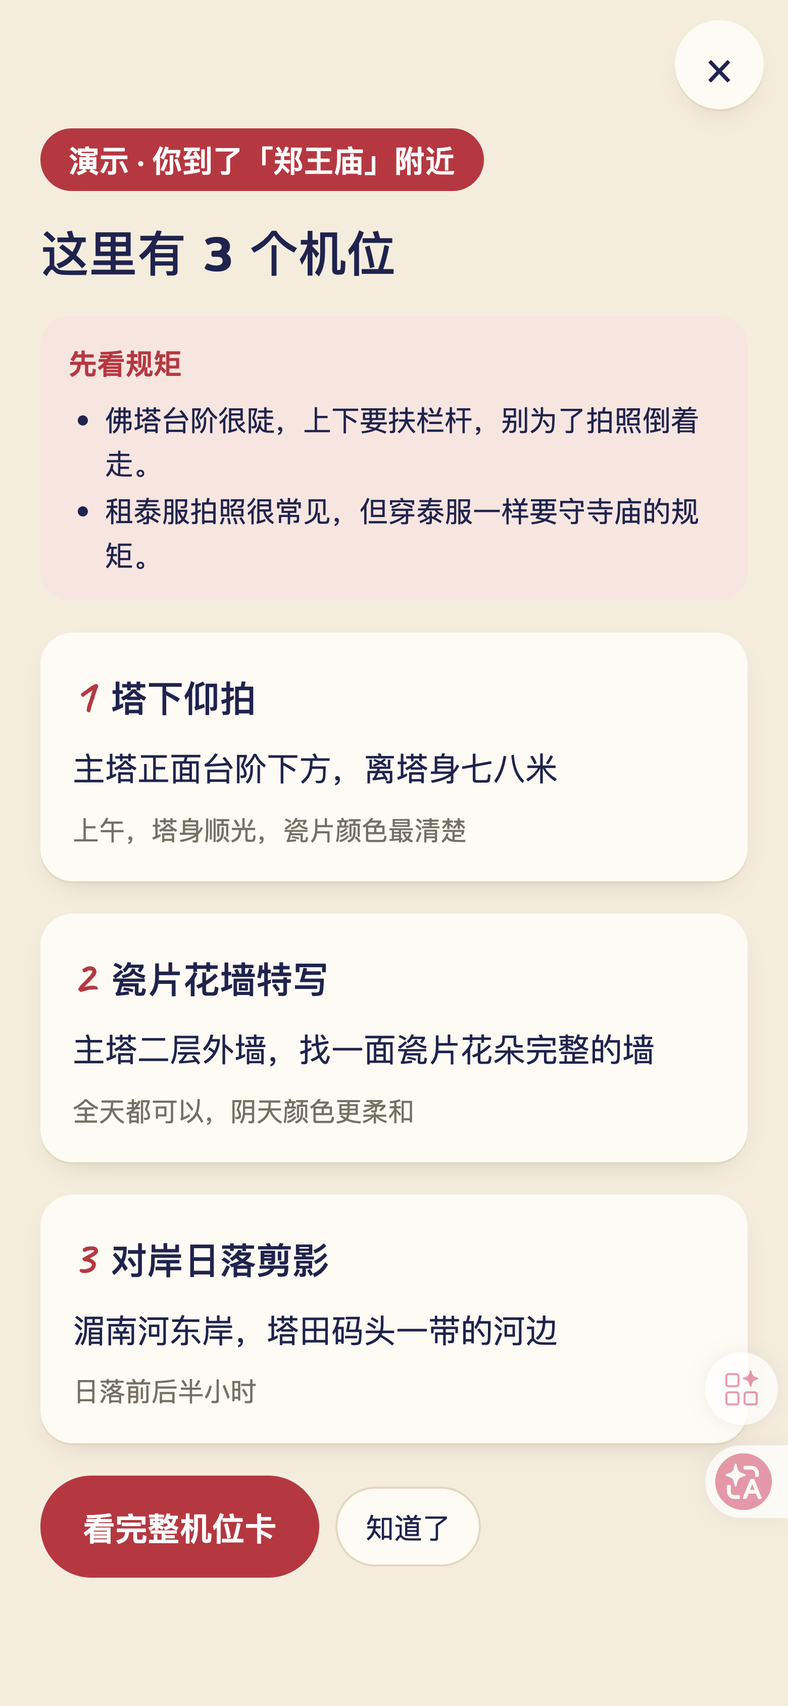
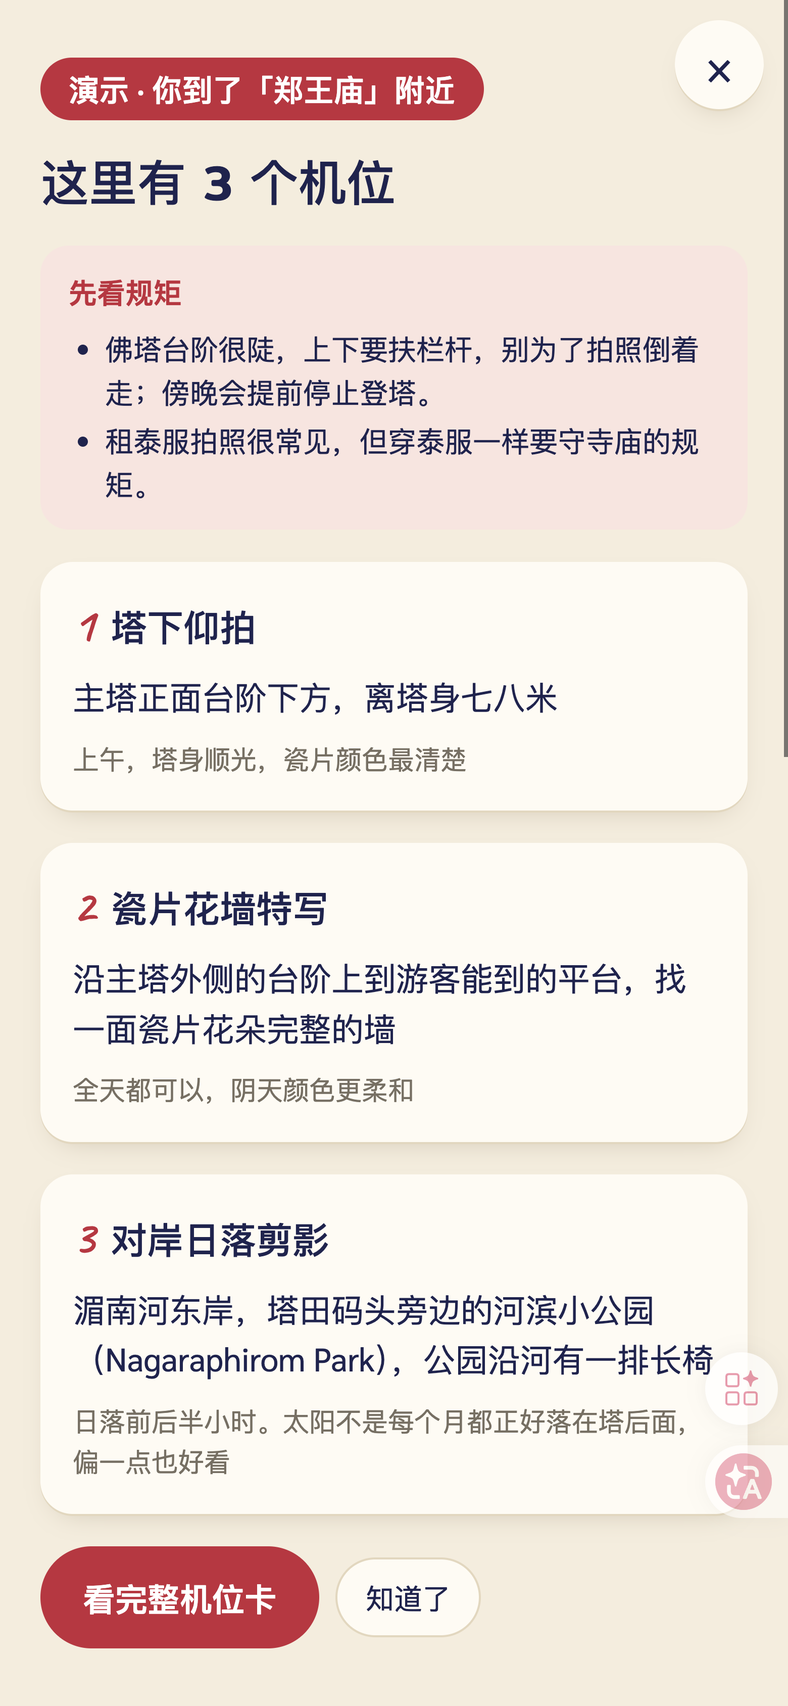
连续看 + 念给我听；修视觉模型被机位卡带偏、全黑图被选中

Changed region(s): [[0.0308, 0.0311, 0.9538, 0.9642], [0.9846, 0.0, 1.0, 0.4354], [0.8308, 0.5598, 0.8615, 0.5909]]

diff --git a/pian.html b/pian.html
@@ -99,6 +99,7 @@ p { margin: 0; }
   background: linear-gradient(to right, transparent 33.2%, rgba(255,255,255,.45) 33.2% 33.5%, transparent 33.5% 66.5%, rgba(255,255,255,.45) 66.5% 66.8%, transparent 66.8%),
               linear-gradient(to bottom, transparent 33.2%, rgba(255,255,255,.45) 33.2% 33.5%, transparent 33.5% 66.5%, rgba(255,255,255,.45) 66.5% 66.8%, transparent 66.8%); }
 .cam .brief { position: absolute; left: 8px; right: 8px; top: 8px; padding: 8px 10px; border-radius: 10px; background: rgba(20,22,46,.72); color: #FFF6E6; font-size: 13px; }
+.cam .tag { position: absolute; left: 8px; bottom: 8px; padding: 4px 10px; border-radius: 999px; background: rgba(20,22,46,.72); color: #fff; font-size: 13px; }
 .cam .busy { position: absolute; inset: 0; display: grid; place-items: center; background: rgba(20,22,46,.45); color: #fff; font-size: 16px; }
 .advice { display: grid; gap: 10px; padding: 16px; border-radius: 16px; background: var(--surface); box-shadow: var(--shadow); }
 .advice.ok { background: var(--leaf-soft); }
@@ -171,7 +172,7 @@ textarea, select { font: inherit; color: inherit; width: 100%; padding: 10px 12p
 
   // ---------- data ----------
   let D = null, FZ = null;           // spots; 飞猪 snapshot (Bangkok)
-  const UI = { err: null, pos: null, geoOn: false, look: null, lookBusy: false, lookErr: null, shot: null, picks: [], pickBusy: false, pickErr: null, pick: null, note: "", pickSpot: "", sample: false, lookSample: false };
+  const UI = { err: null, pos: null, geoOn: false, look: null, lookBusy: false, lookErr: null, shot: null, picks: [], pickBusy: false, pickErr: null, pick: null, note: "", pickSpot: "", sample: false, lookSample: false, speak: true };
   const spotOf = id => D.spots.find(s => s.id === id);
   const dist = (a, b) => { const R = 6371000, r = x => x * Math.PI / 180, dφ = r(b.lat - a.lat), dλ = r(b.lng - a.lng); const h = Math.sin(dφ / 2) ** 2 + Math.cos(r(a.lat)) * Math.cos(r(b.lat)) * Math.sin(dλ / 2) ** 2; return 2 * R * Math.asin(Math.sqrt(h)); };
   const fmtDist = m => m < 1000 ? `${Math.round(m / 10) * 10} 米` : `${(m / 1000).toFixed(1)} 公里`;
@@ -281,10 +282,10 @@ textarea, select { font: inherit; color: inherit; width: 100%; padding: 10px 12p
   function adviceHTML() {
     const a = UI.look;
     if (UI.lookErr) return `<div class="err">${esc(UI.lookErr)}</div>`;
-    if (!a) return `<p class="muted">对准想拍的画面，按「帮我看看」。AI 只根据画面说话，告诉你下一步怎么挪。</p>`;
+    if (!a) return `<p class="muted">对准想拍的画面，按「帮我看看」。AI 只根据画面说话，告诉你下一步怎么挪。按「连续看」可以边挪边看：每隔几秒看一次，最多 6 次，合适了会告诉你按快门。</p>`;
     return `<div class="advice ${a.ok ? "ok" : ""}" aria-live="polite">
       <div><span class="dots" aria-label="${a.score} 分，满分 5 分">${[1, 2, 3, 4, 5].map(i => `<i class="${i <= a.score ? "on" : ""}"></i>`).join("")}</span>
-        <b style="margin-left:8px">${a.ok ? "可以按快门了" : "再调一下"}</b></div>
+        <b style="margin-left:8px">${a.match === false ? "镜头没对着景" : a.ok ? "可以按快门了" : "再调一下"}</b></div>
       ${a.see ? `<p class="muted small">我看到：${esc(a.see)}</p>` : ""}
       ${a.moves.length ? `${a.ok ? `<p class="muted small">想更好还可以：</p>` : ""}<ol class="moves">${a.moves.map(m => `<li>${esc(m)}</li>`).join("")}</ol>` : ""}
       ${a.pose ? `<p>人的姿势：${esc(a.pose)}</p>` : ""}
@@ -301,10 +302,13 @@ textarea, select { font: inherit; color: inherit; width: 100%; padding: 10px 12p
         <div class="grid"></div>
         ${c ? `<div class="brief">${esc(c.shot)}</div>` : ""}
         ${UI.lookBusy ? `<div class="busy">正在看画面…</div>` : ""}
+        <div class="tag" id="autotag" hidden>正在看…</div>
       </div>
       <div class="row" style="justify-content:center">
         <button class="btn primary big" data-act="look" ${UI.lookBusy ? "disabled" : ""}>${UI.shot ? "再看一次" : "帮我看看"}</button>
         <label class="btn"><input type="file" id="lookfile" accept="image/*" capture="environment" hidden>用相册 / 系统相机</label>
+        ${!UI.shot ? `<button class="btn navy" id="autobtn" data-act="auto">连续看：边挪边看</button>` : ""}
+        <button class="btn" data-act="speak" aria-pressed="${UI.speak}">念给我听：${UI.speak ? "开" : "关"}</button>
         ${samplePic(s) ? `<button class="btn" data-act="looksample" ${UI.lookBusy ? "disabled" : ""}>没在现场？用示例图试试</button>` : ""}
       </div>
       ${UI.lookSample && UI.shot ? `<p class="muted small">上面是示例图片（飞猪的景点图），不是你的相机画面。AI 的建议是针对这张图现场生成的。</p>` : ""}
@@ -356,7 +360,7 @@ textarea, select { font: inherit; color: inherit; width: 100%; padding: 10px 12p
     app.innerHTML = view === "spot" ? viewSpot(args[0]) : view === "look" ? viewLook(args[0], args[1]) : view === "pick" ? viewPick() : viewHome();
     if (view === "look" && !UI.shot) startCam();
   }
-  addEventListener("hashchange", () => { UI.look = null; UI.lookErr = null; UI.shot = null; UI.lookSample = false; closeModal(); render(); scrollTo(0, 0); });
+  addEventListener("hashchange", () => { stopAuto(); if (window.speechSynthesis) speechSynthesis.cancel(); UI.look = null; UI.lookErr = null; UI.shot = null; UI.lookSample = false; closeModal(); render(); scrollTo(0, 0); });
 
   // ---------- camera ----------
   let CAM = null;
@@ -378,13 +382,42 @@ textarea, select { font: inherit; color: inherit; width: 100%; padding: 10px 12p
     c.getContext("2d").drawImage(v, 0, 0, c.width, c.height);
     return c.toDataURL("image/jpeg", .8);
   }
+  // Read the one thing to do next aloud: with the phone held up, nobody reads small text.
+  function say() {
+    const a = UI.look; if (!UI.speak || !a || !window.speechSynthesis) return;
+    const t = [a.match === false ? a.moves[0] : a.ok ? "可以按快门了" : a.moves[0], a.rule ? "注意，" + a.rule : ""].filter(Boolean).join("。");
+    if (!t) return;
+    try { speechSynthesis.cancel(); const u = new SpeechSynthesisUtterance(t); u.lang = "zh-CN"; u.rate = 1.05; speechSynthesis.speak(u); } catch (e) {}
+  }
+  // 连续看: the viewfinder stays live; one frame every few seconds, at most 6, stops as soon as the shot is good.
+  const AUTO = { on: false, n: 0, timer: null };
+  function stopAuto() {
+    AUTO.on = false; clearTimeout(AUTO.timer);
+    const b = $("#autobtn"); if (b) b.textContent = "连续看：边挪边看";
+    const tag = $("#autotag"); if (tag) tag.hidden = true;
+  }
+  async function autoStep() {
+    if (!AUTO.on || view !== "look" || UI.shot) { stopAuto(); return; }
+    const img = grab();
+    if (!img) { AUTO.timer = setTimeout(autoStep, 1000); return; }
+    const tag = $("#autotag"); if (tag) { tag.hidden = false; tag.textContent = `正在看…第 ${AUTO.n + 1} 次`; }
+    try { UI.look = await post("/api/pian/look", { image: img, spot: args[0] || "", card: Number.isInteger(+args[1]) ? +args[1] : -1 }); UI.lookErr = null; track("pian_look", args[0], true); }
+    catch (e) { UI.lookErr = e.message; UI.look = null; AUTO.on = false; }
+    AUTO.n++;
+    const t2 = $("#autotag"); if (t2) t2.hidden = true;
+    const a = $("#advice"); if (a) a.innerHTML = adviceHTML();
+    say();
+    if (!AUTO.on) { stopAuto(); return; }
+    if ((UI.look && UI.look.ok) || AUTO.n >= 6) { stopAuto(); return; }
+    AUTO.timer = setTimeout(autoStep, 3500);
+  }
   async function look(image, sample) {
     if (UI.lookBusy) return;
     UI.lookSample = !!sample;
     UI.lookBusy = true; UI.lookErr = null; UI.look = null; UI.shot = image; render();
     try { UI.look = await post("/api/pian/look", { image, spot: args[0] || "", card: Number.isInteger(+args[1]) ? +args[1] : -1 }); track("pian_look", args[0], true); }
     catch (e) { UI.lookErr = e.message; track("pian_look", args[0], false); }
-    UI.lookBusy = false; UI.shot = image; render();
+    UI.lookBusy = false; UI.shot = image; render(); say();
     const a = $("#advice"); if (a) a.scrollIntoView({ block: "nearest", behavior: "smooth" });
   }
 
@@ -425,7 +458,14 @@ textarea, select { font: inherit; color: inherit; width: 100%; padding: 10px 12p
     if (act === "close") { closeModal(); return; }
     if (act === "geo") { geoOn(); return; }
     if (act === "geodemo") { alertSpot(spotOf("arun"), true); return; }
+    if (act === "speak") { UI.speak = !UI.speak; if (!UI.speak && window.speechSynthesis) speechSynthesis.cancel(); b.setAttribute("aria-pressed", UI.speak); b.textContent = "念给我听：" + (UI.speak ? "开" : "关"); return; }
+    if (act === "auto") {
+      if (AUTO.on) { stopAuto(); return; }
+      if (!grab()) { UI.lookErr = "相机画面还没出来。等一秒再按，或者用「用相册 / 系统相机」。"; $("#advice").innerHTML = adviceHTML(); return; }
+      AUTO.on = true; AUTO.n = 0; b.textContent = "停止连续看"; UI.look = null; UI.lookErr = null; autoStep(); return;
+    }
     if (act === "look") {
+      stopAuto();
       if (UI.shot) { UI.shot = null; UI.look = null; UI.lookErr = null; render(); return; }   // back to the live viewfinder
       const img = grab();
       if (!img) { UI.lookErr = "相机画面还没出来。等一秒再按，或者用「用相册 / 系统相机」。"; $("#advice").innerHTML = adviceHTML(); return; }
@@ -448,7 +488,7 @@ textarea, select { font: inherit; color: inherit; width: 100%; padding: 10px 12p
       UI.note = ($("#pnote") || {}).value || ""; UI.pickSpot = ($("#pspot") || {}).value || "";
       UI.pickBusy = true; UI.pickErr = null; render();
       try { UI.pick = await post("/api/pian/pick", { images: UI.picks, spot: UI.pickSpot, note: UI.note }); track("pian_pick", UI.pickSpot, true); }
-      catch (er) { UI.pickErr = er.message; track("pian_pick", UI.pickSpot, false); }
+      catch (er) { UI.pickErr = er.message; UI.pick = null; track("pian_pick", UI.pickSpot, false); }
       UI.pickBusy = false; render();
       const h = $(".picks"); if (h) h.scrollIntoView({ block: "start", behavior: "smooth" });
       return;

diff --git a/functions/api/pian/pick.js b/functions/api/pian/pick.js
@@ -23,27 +23,30 @@ export async function onRequestPost({ request, env }) {
       model: "qwen3-vl-plus", temperature: 0.2, max_tokens: 1200, timeout: 50000,
       messages: [{ role: "user", content: [
         ...images.flatMap((url, i) => [{ type: "text", text: `第 ${i + 1} 张：` }, { type: "image_url", image_url: { url } }]),
-        { type: "text", text: `上面是同一趟旅行拍的 ${n} 张照片${spot ? `，地点是${spot.name}` : ""}。帮朋友挑出最适合发小红书的 ${top} 张。
+        { type: "text", text: `上面是同一趟旅行拍的 ${n} 张照片。帮朋友挑出最适合发小红书的 ${top} 张。
 只根据照片里真实看到的内容判断，输出 JSON，不要别的文字：
 {"photos":[{"i":照片序号,"what":"这张拍到了什么，≤20字","good":"好在哪，≤18字","bad":"问题在哪（糊、歪、主体被切、太暗、路人抢镜、闭眼等），没有就空，≤18字","score":1到10}],"top":[按发布顺序排的 ${top} 个序号，第一个当封面],"cover_why":"为什么第一张当封面，≤24字"}
-photos 要包含全部 ${n} 张。挑封面看：主体清楚、构图干净、颜色抓眼。相似的照片只留一张。` },
+photos 要包含全部 ${n} 张。全黑、纯色、严重模糊、不是旅行照片（菜单、截图、文字）的，score 给 1 或 2，并在 bad 里写明。认不出是哪里就只描述看到的东西，不要猜地名。挑封面看：主体清楚、构图干净、颜色抓眼。相似的照片只留一张。` },
       ] }],
     });
     const v = parseLoose(r.text);
     if (!v || !Array.isArray(v.photos)) return json({ error: "照片没看清，换几张再试" }, 422);
     const photos = v.photos.map(p => ({ i: Math.round(Number(p.i)), what: clip(p.what, 30), good: clip(p.good, 28), bad: clip(p.bad, 28), score: Math.max(1, Math.min(10, Math.round(Number(p.score) || 5))) }))
       .filter(p => p.i >= 1 && p.i <= n);
+    // Unusable shots (black, blurred, not a travel photo) never make the cut, whatever order the model returned.
+    const usable = new Set(photos.filter(p => p.score >= 3).map(p => p.i));
+    if (usable.size < 2) return json({ error: "这几张里能发的不到 2 张（太暗、太糊或不是旅行照片），换几张再试", photos }, 422);
     const seen = new Set();
-    let order = (Array.isArray(v.top) ? v.top : []).map(x => Math.round(Number(x))).filter(i => i >= 1 && i <= n && !seen.has(i) && seen.add(i)).slice(0, top);
+    let order = (Array.isArray(v.top) ? v.top : []).map(x => Math.round(Number(x))).filter(i => i >= 1 && i <= n && usable.has(i) && !seen.has(i) && seen.add(i)).slice(0, top);
     // Fall back to the scores when the model returned no usable order.
-    for (const p of [...photos].sort((a, c) => c.score - a.score)) { if (order.length >= top) break; if (!seen.has(p.i)) { seen.add(p.i); order.push(p.i); } }
+    for (const p of [...photos].sort((a, c) => c.score - a.score)) { if (order.length >= top) break; if (usable.has(p.i) && !seen.has(p.i)) { seen.add(p.i); order.push(p.i); } }
 
     const picked = order.map(i => photos.find(p => p.i === i)).filter(Boolean);
     const facts = (spot ? `地点：${spot.name}（曼谷）。${spot.why}` : "地点：泰国（具体地点以照片为准）") + ` 规矩：${[...((spot && spot.rules) || []), ...(data.common_rules || [])].join(" ")}`;
     const { j } = await chatJSON(env, {
       model: "qwen3.8-flash", temperature: 0.7, max_tokens: 900,
       messages: [
-        { role: "system", content: `你帮朋友写一条小红书旅行笔记。只能用下面给的事实：照片里拍到的东西、地点说明、朋友自己补充的话。不要编价格、开放时间、交通方式、排队时长，也不要编朋友没说过的经历和细节（比如用了什么 App、穿了什么鞋）。
+        { role: "system", content: `你帮朋友写一条小红书旅行笔记。只能用下面给的事实：照片里拍到的东西、地点说明、朋友自己补充的话。地点说明只在和照片内容对得上时才用，对不上就只写照片里的东西；不要写「听说」「据说」。不要编价格、开放时间、交通方式、排队时长，也不要编朋友没说过的经历和细节（比如用了什么 App、穿了什么鞋）。
 输出 JSON：{"titles":["3 个标题，每个≤20字，可以带 1 个 emoji"],"body":"正文，120–200字，分 3–4 段，第一人称，口语，像真人发的；最后一段是给后来人的 1–2 条实用提醒（只能来自「规矩」或照片里看得出的事）","tags":["6–8 个话题标签，不带 #"]}
 不要用「绝绝子」「宝藏」「谁懂啊」这类套话，不要感叹号连用。` },
         { role: "user", content: `${facts}\n选中的照片（按发布顺序）：\n${picked.map((p, k) => `${k + 1}. ${p.what}`).join("\n")}\n朋友补充：${note || "（没有）"}` },

diff --git a/functions/api/pian/look.js b/functions/api/pian/look.js
@@ -23,19 +23,22 @@ export async function onRequestPost({ request, env }) {
       model: "qwen3-vl-plus", temperature: 0.2, max_tokens: 500, timeout: 30000,
       messages: [{ role: "user", content: [
         { type: "image_url", image_url: { url: image } },
-        { type: "text", text: `你是陪朋友旅行拍照的搭子，朋友举着手机让你看取景画面。只根据画面里真实看到的东西说话，看不清就说看不清。
+        { type: "text", text: `你是陪朋友旅行拍照的搭子，朋友举着手机让你看取景画面。
+第一步：先只看图，不看下面的背景资料，如实写出画面里现在有什么（see）。看不清就写看不清。
+第二步：再对照背景资料给建议。背景资料只说明朋友「想拍成什么样」，不代表画面里已经有这些东西；画面里没有的东西，不许写进 see，也不许据此打高分。
+【背景资料】
 ${ctx}
 输出 JSON，不要别的文字：
-{"see":"画面里现在有什么，≤24字","score":1到5的整数（5=可以直接按快门）,"moves":["下一步怎么动，最多3条，每条≤18字，要具体：往哪走几步、手机抬高还是放低、把什么放到画面哪里、什么东西切掉了"],"pose":"画面里有人才给一句姿势建议；画面里没有人必须是空字符串，≤20字","rule":"画面里如果有违反上面规矩的情况（着装、爬上底座、禁拍区域等）就提醒一句，没有就空，≤24字","ok":true或false（score≥4 为 true）}
-score 是 5 时 moves 最多 1 条或者为空。
-要求：不夸不贬，像朋友在旁边说话；不要讲摄影术语（不说「黄金分割」「景深」），说「放到右上角」「蹲低一点」这种话；地平线或建筑歪了要指出来；主体被切掉要指出来。` },
+{"see":"画面里现在有什么，≤24字","match":true或false（画面是不是户外或室内的景物、建筑、人像这类能拍照的场景；如果是菜单、文字、屏幕截图、纯色、全黑、手指挡住镜头，就是 false）,"score":1到5的整数（5=可以直接按快门；match 为 false 时必须是 1）,"moves":["下一步怎么动，最多3条，每条≤18字，要具体：往哪走几步、手机抬高还是放低、把什么放到画面哪里、什么东西切掉了。match 为 false 时只写一条，直接对朋友说，例如「镜头现在对着菜单，对准塔再按」"],"pose":"画面里有人才给一句姿势建议；画面里没有人必须是空字符串，≤20字","rule":"画面里如果有违反规矩的情况（着装、爬上底座、禁拍区域等）就提醒一句，没有就空，≤24字"}
+要求：不夸不贬，像朋友在旁边说话；不要讲摄影术语（不说「黄金分割」「景深」），说「放到右上角」「蹲低一点」这种话；地平线或建筑歪了要指出来；主体被切掉要指出来。score 是 5 时 moves 最多 1 条或者为空。` },
       ] }],
     });
     const j = parseLoose(r.text);
     if (!j) return json({ error: "没看清，再对准拍一次" }, 422);
-    const score = Math.max(1, Math.min(5, Math.round(Number(j.score) || 3)));
+    const match = j.match !== false;
+    const score = match ? Math.max(1, Math.min(5, Math.round(Number(j.score) || 3))) : 1;
     const moves = (Array.isArray(j.moves) ? j.moves : []).map(x => clip(x, 30)).filter(Boolean).slice(0, 3);
-    return json({ see: clip(j.see, 40), score, ok: score >= 4, moves, pose: clip(j.pose, 36), rule: clip(j.rule, 40) });
+    return json({ see: clip(j.see, 40), match, score, ok: score >= 4, moves, pose: match ? clip(j.pose, 36) : "", rule: clip(j.rule, 40) });
   } catch (e) {
     return json({ error: e.message || "没看清，再试一次" }, 502);
   }

diff --git a/SUBMISSION.md b/SUBMISSION.md
@@ -36,9 +36,12 @@
 
 2. **举起手机看构图（多模态）**
    选一张机位卡，举起手机，按「帮我看看」。百炼视觉模型看当前这一帧，对照这张机位卡想要的画面，给 1–5 分和最多 3 条具体动作，例如「往右移 3 步，避开左上角的树冠」「手机放低一点，让屋顶尖完整入画」。说的是「蹲低」「放到右上角」这种话，不讲摄影术语。画面里如果有不合规矩的情况（着装、爬上底座、禁拍区域），会单独提醒。
+   - **连续看**：按一下，取景画面保持实时，每隔几秒自动看一次，最多 6 次，画面合适了就停下来说「可以按快门了」。
+   - **念给我听**：举着手机时没人低头看小字，所以最要紧的那一条建议会用语音念出来（可关）。
+   - 镜头没对着景（对着菜单、被手挡住、全黑）时会直接说「镜头没对着景」，不会硬给构图建议。
 
 3. **挑图 + 写文案（多模态）**
-   选 2–9 张照片。百炼视觉模型先说每张拍到了什么、问题在哪（糊、歪、主体被切、路人抢镜），挑出最该发的 3 张并排好顺序，说明为什么这张当封面。然后文本模型只用「照片里看到的内容 + 地点说明 + 用户自己填的一句话」写 3 个标题、一段正文和话题标签，一键复制。不编价格、开放时间和没发生过的经历。
+   选 2–9 张照片。百炼视觉模型先说每张拍到了什么、问题在哪（糊、歪、主体被切、路人抢镜），挑出最该发的 3 张并排好顺序，说明为什么这张当封面。太暗、太糊或不是旅行照片的不会被选中，能发的不到 2 张时会直接告诉你。然后文本模型只用「照片里看到的内容 + 地点说明 + 用户自己填的一句话」写 3 个标题、一段正文和话题标签，一键复制。不编价格、开放时间和没发生过的经历。
 
 4. **走到机位附近主动提醒（空间感知 + 主动服务）**
    开启提醒后，走到这 6 个地点附近，页面主动弹出这里的机位和规矩，同一处 6 小时内不重复。不在泰国可以点「演示：模拟走到郑王庙」。首页的地点会按离你的远近排序。
@@ -100,7 +103,7 @@
 
 - **在线 Demo**：https://bianzithai.pages.dev/pian
   - 首页点任意地点，看 3 张机位卡和规矩
-  - 机位卡上点「举起手机，帮我看构图」，对着任意画面按「帮我看看」（约 4–8 秒）；不在现场就点「没在现场？用示例图试试」
+  - 机位卡上点「举起手机，帮我看构图」，对着任意画面按「帮我看看」（约 4–8 秒），或按「连续看：边挪边看」；不在现场就点「没在现场？用示例图试试」
   - 首页点「已经拍完了？挑图 + 写文案」，选 2–9 张照片（约 20–30 秒）；手边没照片就点「用 5 张示例图试试」
   - 不在泰国：首页点「演示：模拟走到郑王庙」看到达提醒
 - **代码仓库**：https://github.com/bianzigege/chupian-dazi
@@ -116,8 +119,11 @@
 
 ## 踩坑记录（可选）
 
+0. **视觉模型会被背景资料带着「脑补」画面**：把机位卡的拍法给了模型之后，拿一张菜单去试，模型回答「主塔正面台阶下，塔尖完整」，还打了 5 分——它在复述机位卡，没在看图。改成要求模型先只看图写出画面里有什么，再对照机位卡；并加一个判断「镜头是不是对着景」，不是就直接 1 分。同样的问题也出现在挑图：告诉模型「地点是郑王庙」，它会把大皇宫的照片也说成郑王庙，所以挑图这一步不再告诉模型地点。
+
 1. **视觉模型给的建议太虚**：一开始只给画面，得到的是「构图不错，可以尝试三分法」。把这张机位卡的站位、拍法一起给模型，并要求每条建议必须是具体动作（往哪走几步、手机抬高还是放低、把什么放到画面哪里），输出才能照着做。
 2. **文案会编**：只给照片让模型写小红书，会出现编造的价格、开放时间和「排队两小时」。改成两步：视觉模型只负责说照片里有什么，文本模型只能用这些描述加上地点说明和用户自己的一句话。页面上仍然提示「发之前自己读一遍」，因为这个约束不是百分之百牢靠。
 3. **满分还给三条修改意见**：模型给 5 分的同时列 3 条「再调一下」。在提示词里限定满分时最多 1 条，页面上把 4 分以上的建议标成「想更好还可以」。
 4. **没有人也给姿势建议**：画面里没人时模型照样写姿势。提示词里写明「画面里没有人必须是空」。
-5. **手机拍的照片太大**：12MP 原图直接传会超时。看构图缩到长边 960 像素，挑图每张缩到 768 像素，每张一百多 KB，9 张一起传也不会超时。
+5. **全黑的照片被选进前三**：只传全黑图和菜单时，模型照样排出「前 3 张」并写了一篇关于黑屏的文案。现在分数过低的照片在代码里直接排除，能发的不到 2 张就返回提示，不写文案。
+6. **手机拍的照片太大**：12MP 原图直接传会超时。看构图缩到长边 960 像素，挑图每张缩到 768 像素，每张一百多 KB，9 张一起传也不会超时。
